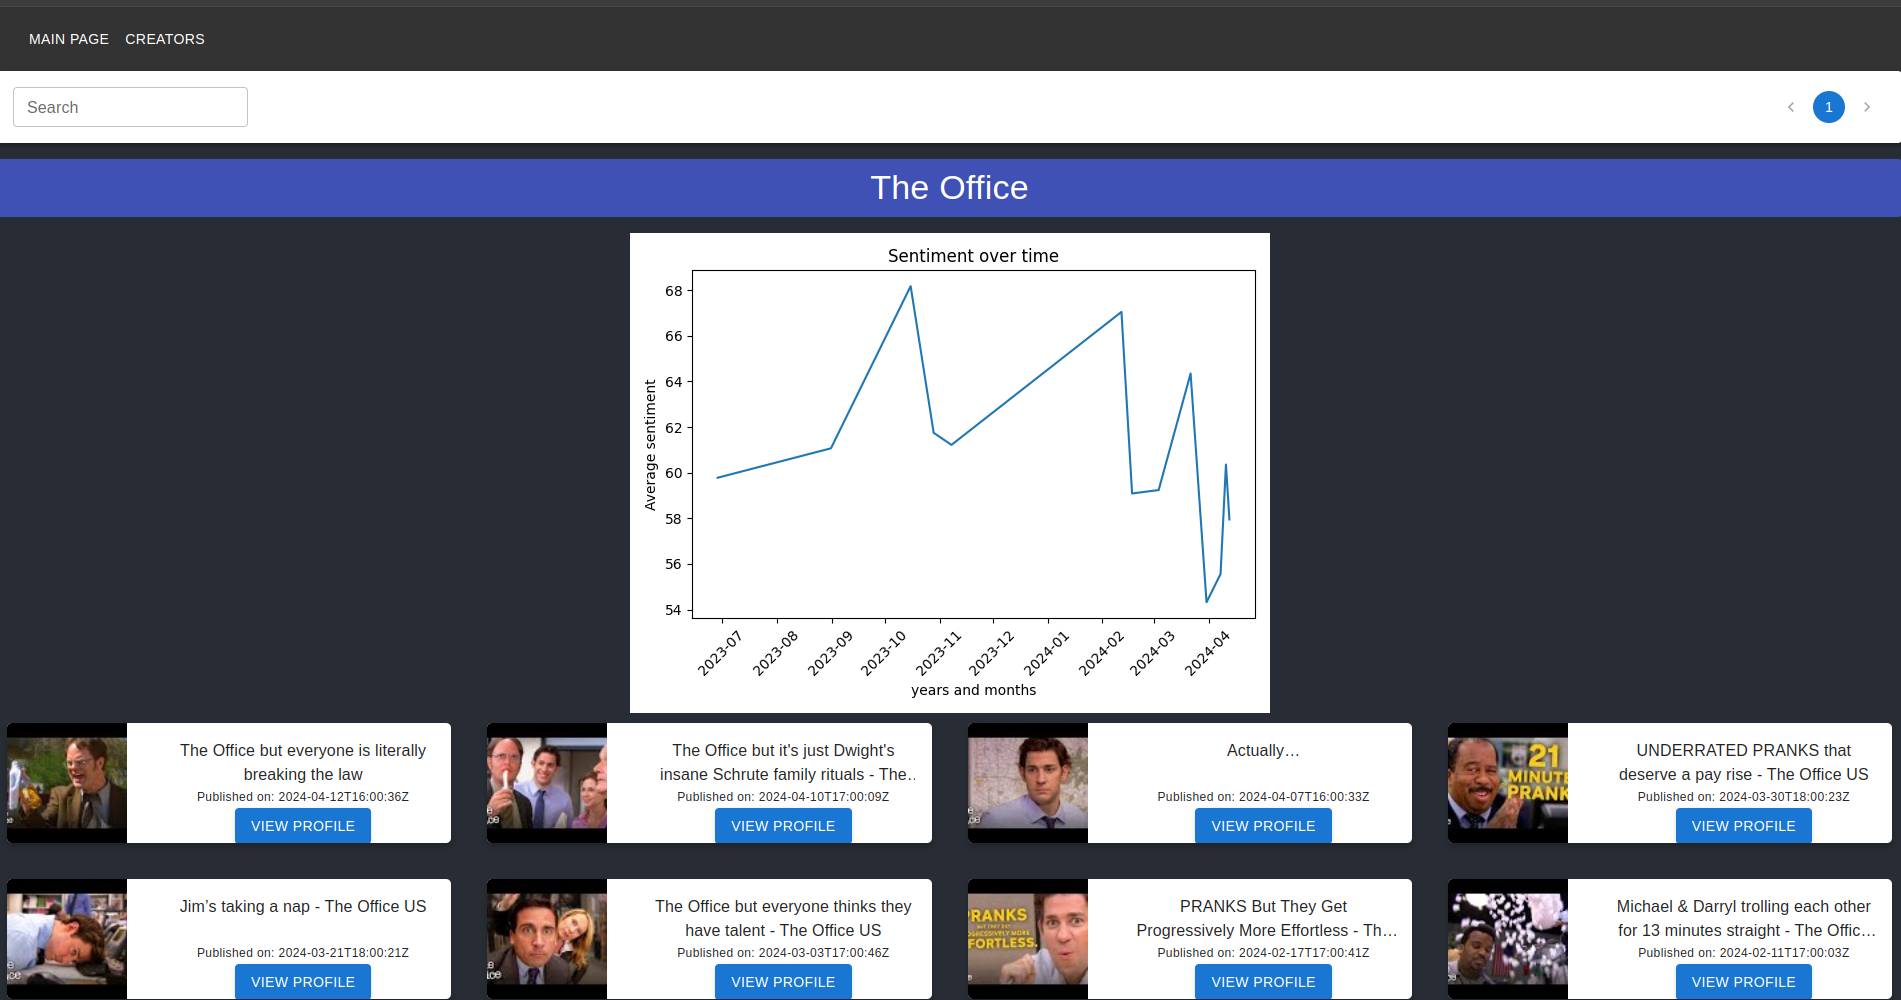
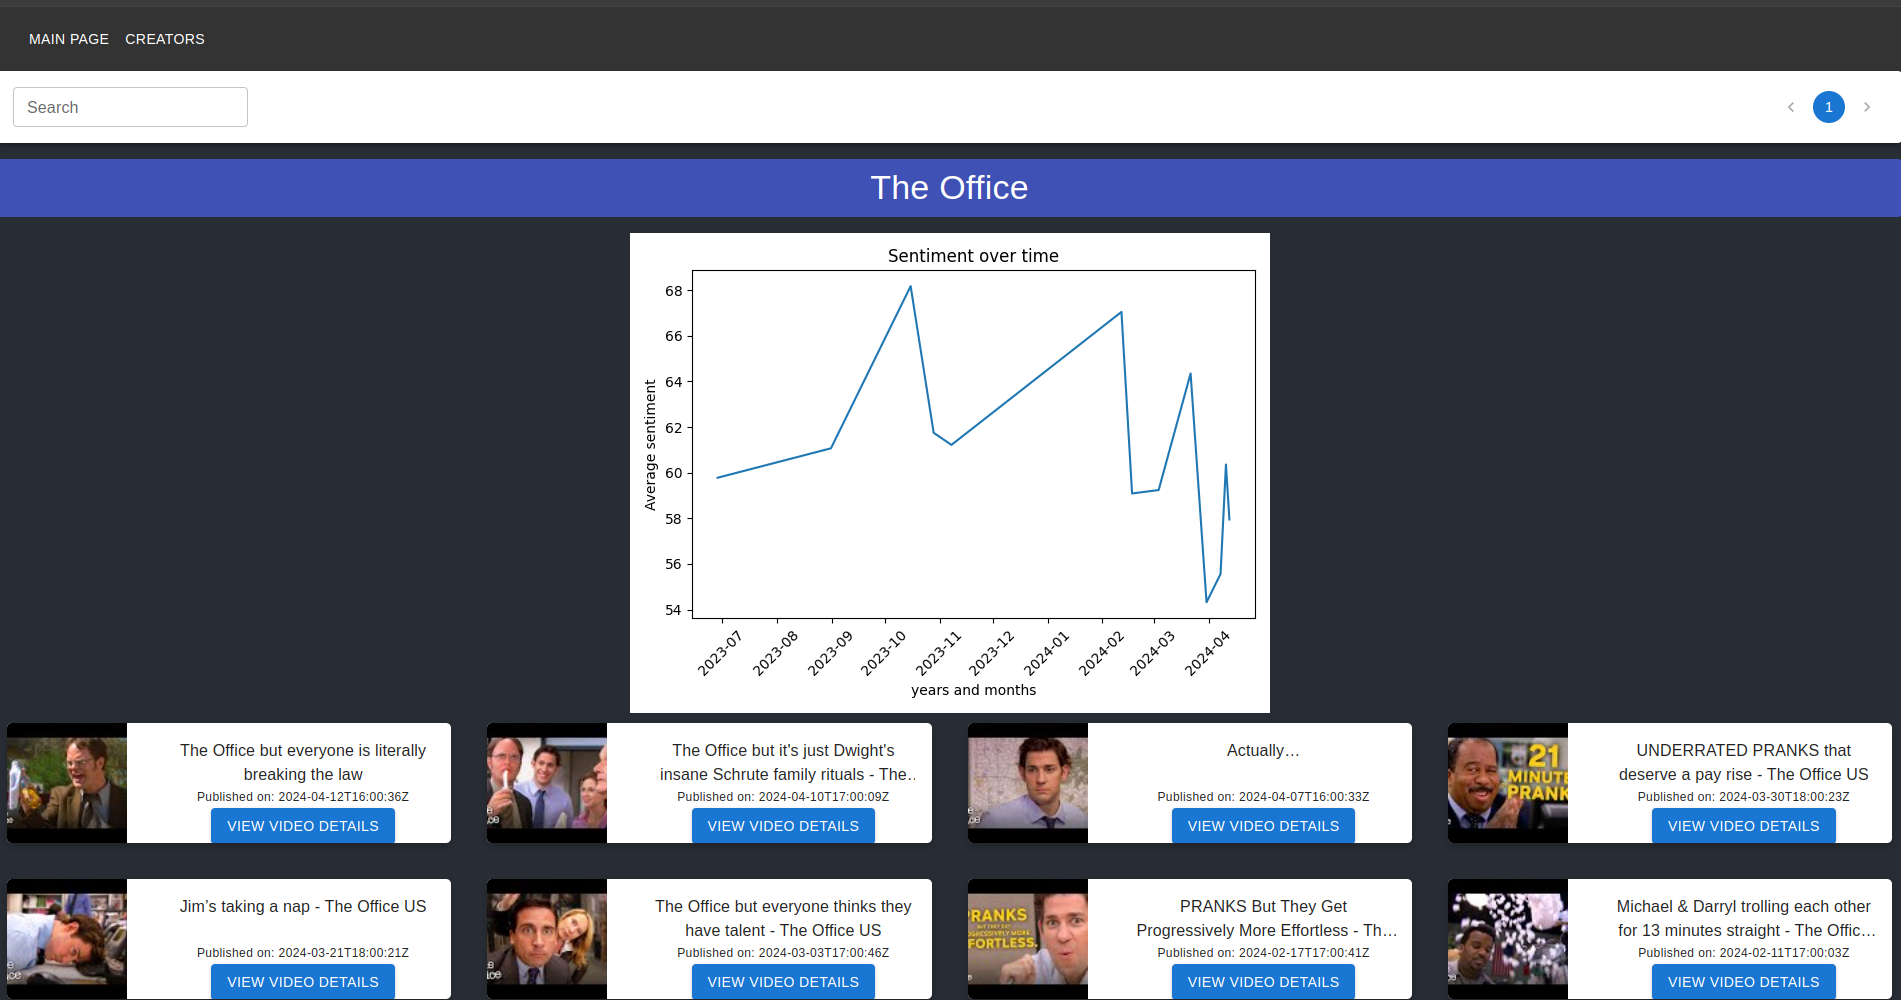
feat: readme

diff --git a/frontend/src/pages/ChannelPage.jsx b/frontend/src/pages/ChannelPage.jsx
@@ -156,7 +156,7 @@ const ChannelPage = () => {
                             })
                           }
                         >
-                          View Profile
+                          View Video Details
                         </Button>
                       </Box>
                     </CardContent>
